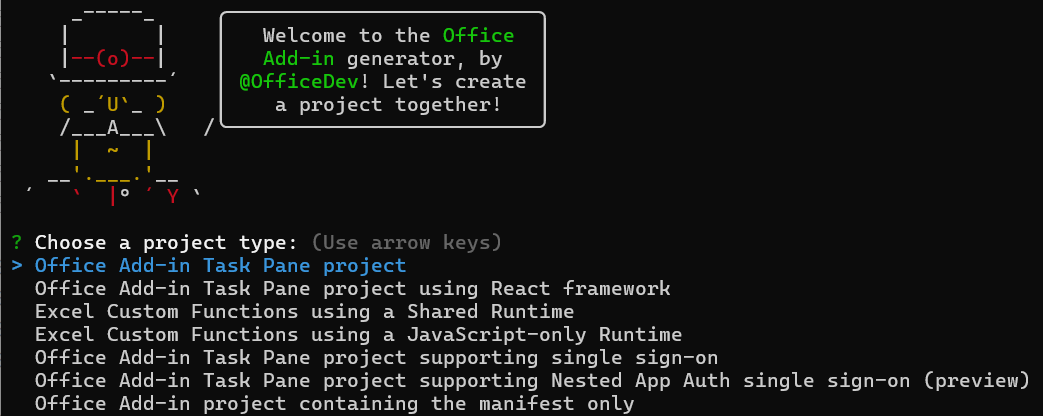
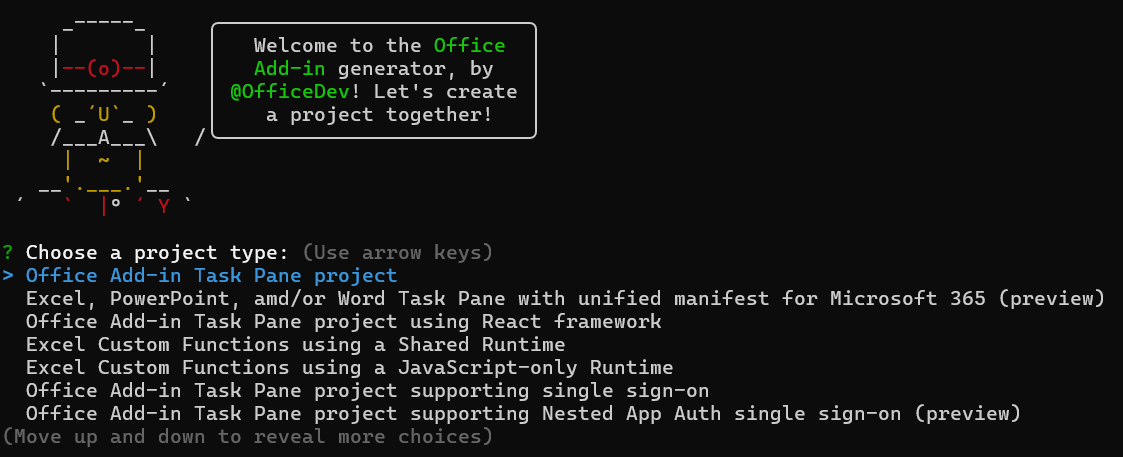
[All Hosts] (tools) update overview of Yo Office

diff --git a/docs/develop/yeoman-generator-overview.md b/docs/develop/yeoman-generator-overview.md
@@ -2,16 +2,16 @@
 title: Create Office Add-in projects using the Yeoman Generator
 description: Learn how to create Office Add-in projects using the Yeoman generator for Office Add-ins.
 ms.topic: tutorial
-ms.date: 04/12/2024
+ms.date: 04/16/2024
 ms.localizationpriority: high
 ---
 
 # Create Office Add-in projects using the Yeoman Generator
 
-The [Yeoman Generator for Office Add-ins](https://github.com/OfficeDev/generator-office) (also called "Yo Office") is an interactive Node.js-based command line tool that creates Office Add-in development projects. We recommend that you use this tool to create add-in projects except when you want the server-side code of the add-in to be in a .NET-based language (such as C# or VB.Net) or you want the add-in hosted in Internet Information Server (IIS). In either of the latter two situations, [use Visual Studio to create the add-in](develop-add-ins-visual-studio.md).
+The [Yeoman Generator for Office Add-ins](https://github.com/OfficeDev/generator-office) (also called "Yo Office") is an interactive Node.js-based command line tool that creates Office Add-in development projects. These projects are Node.js-based. When you want the server-side code of the add-in to be in a .NET-based language (such as C# or VB.Net) or you want the add-in hosted in Internet Information Server (IIS), [use Visual Studio to create the add-in](develop-add-ins-visual-studio.md).
 
 > [!NOTE]
-> Office add-ins can also be created with the Teams Toolkit (Prerelease version). For more information about how to do this and the limitations, see [Create Office Add-in projects using the Teams Toolkit (preview)](teams-toolkit-overview.md).
+> Office add-ins can also be created with the [Teams Toolkit](teams-toolkit-overview.md) or the [Office Add-in's Development Kit]((development-kit-overview.md)). 
 
 The projects that the tool creates have the following characteristics.
 
@@ -27,7 +27,7 @@ The projects that the tool creates have the following characteristics.
 > [!TIP]
 > If you want to deviate from these choices significantly, such as using a different task runner or a different server, we recommend that when you run the tool you choose the [Manifest-only option](#manifest-only-option).
 
-## Install the generator
+## Prerequisites
 
 >[!NOTE]
 > If you aren't familiar with Node.js or npm, you should start by [setting up your development environment](../overview/set-up-your-dev-environment.md).
@@ -42,21 +42,24 @@ Start the tool with the following command in a system prompt (not a bash window)
 yo office 
 ```
 
-A lot needs to load, so it may take 20 seconds before the tool starts. The tool asks you a series of questions. For some, you just type an answer to the prompt. For others, you're given a list of possible answers. If given a list, select one and then select Enter.
+A lot needs to load, so it may take 40 seconds before the tool starts. The tool asks you a series of questions. For some, you just type an answer to the prompt. For others, you're given a list of possible answers. If given a list, use the up and down arrow keys to select one and then select <kbd>Enter</kbd>.
 
 The first question asks you to choose between several types of projects. The options are:
 
 - **Office Add-in Task Pane project**
+- **Excel, PowerPoint, adn/or Word Task Pane with unified manifest for Microsoft 365 (preview)**
 - **Office Add-in Task Pane project using React framework**
 - **Excel Custom Functions using a Shared Runtime**
 - **Excel Custom Functions using a JavaScript-only Runtime**
 - **Office Add-in Task Pane project supporting single sign-on**
+- **Office Add-in Task Pane project supporting Nested App Auth single sign-on (preview)**
 - **Office Add-in project containing the manifest only**
 
 ![The prompt for project type, and the possible answers, in the Yeoman generator.](../images/yo-office-project-type-prompt.png)
 
 > [!NOTE]
-> The **Office Add-in project containing the manifest only** option produces a project that contains a basic add-in manifest and minimal scaffolding. For more information about the option, see [Manifest-only option](#manifest-only-option).
+> - The **Office Add-in project containing the manifest only** option produces a project that contains a basic add-in manifest and minimal scaffolding. For more information about the option, see [Manifest-only option](#manifest-only-option).
+> - The **Excel, PowerPoint, and/or Word Task Pane with unified manifest for Microsoft 365 (preview)** option creates a project for Excel, PowerPoint, Word, or all three, that uses the unified manifest for Microsoft 365. For more information about the option, see [Word, PowerPoint, or Excel with unified manifest](#word-powerpoint-or-excel-with-unified-manifest-option).
 
 The next question asks you to choose between **TypeScript** and **JavaScript**. (This question is skipped if you chose the manifest-only option in the preceding question.)
 
@@ -74,7 +77,7 @@ If you choose **Outlook** as the Office application, you get an additional quest
 
 [!INCLUDE [non-unified manifest clients note](../includes/non-unified-manifest-clients.md)]
 
-After you've answered this question, the generator creates the project and installs the dependencies. You may see **WARN** messages in the npm output on screen. You can ignore these. You may also see messages that vulnerabilities were found. You can ignore these for now, but you'll eventually need to fix them before your add-in is released to production. For more information about fixing vulnerabilities, open your browser and search for "npm vulnerability".
+After you've answered all questions, the generator creates the project and installs the dependencies. You may see **WARN** messages in the npm output on screen. You can ignore these. You may also see messages that vulnerabilities were found. You can ignore these for now, but you'll eventually need to fix them before your add-in is released to production. For more information about fixing vulnerabilities, open your browser and search for "npm vulnerability".
 
 If the creation is successful, you'll see a **Congratulations!** message in the command window, followed by some suggested next steps. (If you're using the generator as part of a quick start or tutorial, ignore the next steps in the command window and continue with the instructions in the article.)
 
@@ -88,7 +91,7 @@ If the creation is successful, you'll see a **Congratulations!** message in the 
 > When you're ready to install the dependencies, navigate to the root folder of the project in a command prompt and enter `npm install`.
 
 > [!WARNING]
-> If you choose **Office Add-in Task Pane project supporting single sign-on** and **TypeScript**, and you are using a Node.js version greater than 18.16.0, then a bug in Node.js causes the project file **\<root\>\src\middle-tier\ssoauth-helper.ts** to be corrupted. To fix it, copy the contents of the file from the repo, [ssoauth-helper.ts](https://github.com/OfficeDev/Office-Addin-Taskpane-SSO/blob/master/src/middle-tier/ssoauth-helper.ts), over the contents of the file in the generated project.
+> If you choose **Office Add-in Task Pane project supporting single sign-on** and **TypeScript**, and you are using a Node.js version greater than 18.16.0, then a bug in Node.js may cause the project file **\<root\>\src\middle-tier\ssoauth-helper.ts** to be corrupted. To fix it, copy the contents of the file from the repo, [ssoauth-helper.ts](https://github.com/OfficeDev/Office-Addin-Taskpane-SSO/blob/master/src/middle-tier/ssoauth-helper.ts), over the contents of the file in the generated project.
 
 ## Manifest-only option
 
@@ -96,6 +99,10 @@ This option creates only a manifest for an add-in. The resulting project doesn't
 
 - You want to use different tools from the ones a Yeoman generator project installs and configures by default. For example, you want to use a different bundler, transpiler, task runner, or development server.
 - You want to use a web application development framework, other than React, such as Vue.
+
+## Word, PowerPoint, or Excel with unified manifest option
+
+The unified manifest for Microsoft 365 is in preview for Excel, PowerPoint, and Word add-ins. It should not be used for production add-ins, but you can select this option in Yo Office to create an add-in for one (or all three) of those Office applications. You'll be asked to choose which Office application. You can also choose **All** to create an add-in that is installable on all three Office applications. The project that is created uses TypeScript.
 
 ## Use command line parameters
 
